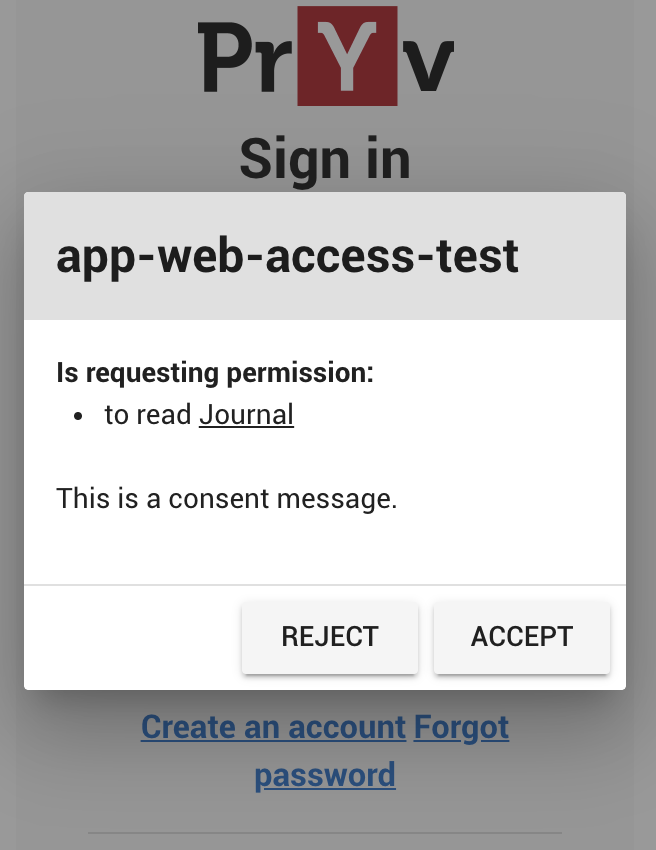
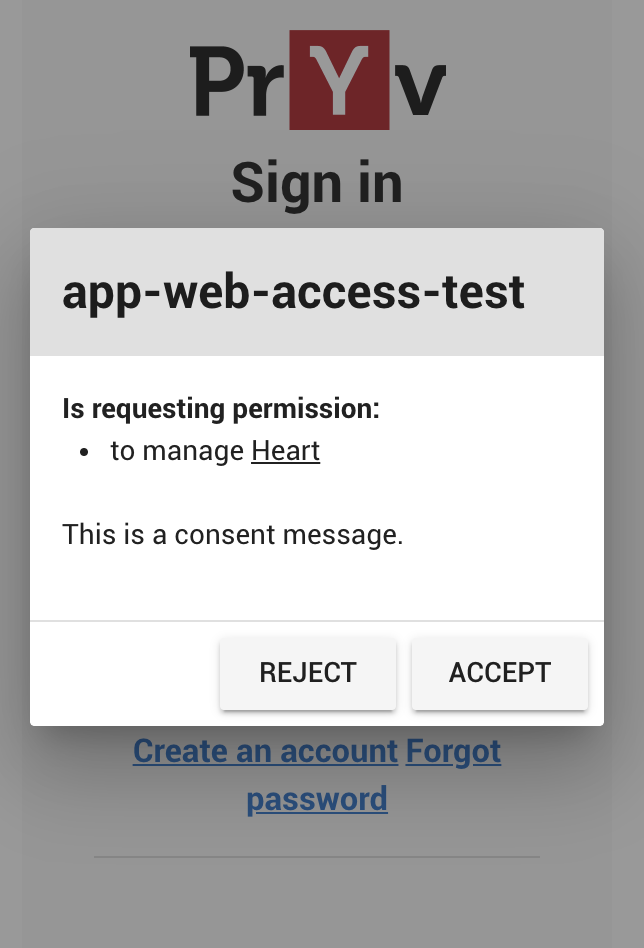
update getting started

Changed region(s): [[0.0311, 0.0, 0.9627, 0.9482], [0.0932, 0.2753, 0.8075, 0.3365], [0.0932, 0.5506, 0.6211, 0.6118]]

diff --git a/source/getting-started.md b/source/getting-started.md
@@ -22,8 +22,10 @@ In addition, you can download the [OpenAPI document](/open-api/3.0/api.yaml) des
 By registering on our Lab platform, you will have access to a Pryv.io user account in a fully-functional environment perfect for your first tests.
 
 1. Go to the [registration page](https://sw.pryv.me/access/register.html).
-![Register-lab.html](/assets/images/getting-started/register-lab.png)
-2. Fill in the form, choose [where you want to store your data](/concepts/#servers) under 'Hosting'.
+&nbsp;
+![Register-lab.html](/assets/images/getting-started/register-lab.png =210x)
+2. Fill in the form and choose [where you want to store your data](/concepts/#servers) under 'Hosting'.
+&nbsp;
 ![Hosting](/assets/images/getting-started/hosting.png)
 3. Click on the '**Create**' button.
 
@@ -32,9 +34,9 @@ By registering on our Lab platform, you will have access to a Pryv.io user accou
 
 Note that the email is optional for the account creation, but is required to reset your password.
 
-Once this is done, you will receive a welcome email from the **Pryv Lab** with your account details. You can sign-in with your Pryv.io account on the following link:
+Once this is done, you will receive a welcome email from the **Pryv Lab** with your account details. You can sign in to your Pryv.io account on the following link: [https://sw.pryv.me/access/access.html](https://sw.pryv.me/access/access.html).
 
-[https://sw.pryv.me/access/signinhub.html](https://sw.pryv.me/access/signinhub.html)
+![Sign-in](/assets/images/getting-started/sign-in.png)
 
 You have now access to your Pryv Lab account through the Pryv.io demo dashboard web application.
 
@@ -65,50 +67,55 @@ Once your platform is up and running, you can create a user account and launch t
 
 1. Test your Open Pryv.io locally by running `yarn local` in your terminal
 2. Open the registration page on the following link : https://my-computer.rec.la:4443/www/access/register.html. 
-![Register-open.html](/assets/images/getting-started/register-open.png)
+![Register-open.html](/assets/images/getting-started/register-open.png =210x)
 3. Fill in the form and click on the '**Create**' button.
 
-
+You can now sign in to your Open Pryv.io account on the following link: [https://my-computer.rec.la:4443/www/access/access.html](https://my-computer.rec.la:4443/www/access/access.html).
 
 ## Obtain an Access Token
 
-Now that your Pryv Lab account has been created, you can start adding data. In order to do so by using code or API clients such as cURL or Postman, you first need to obtain an access token.
+Now that your Pryv.io account has been created using either Pryv lab or Open Pryv.io, you can start adding data. In order to do so by using code or API clients such as cURL or Postman, you first need to obtain an access token.
 
 The easiest is to use the **Pryv Access Token Generation** page (which is a raw implementation of [Pryv.io's oAuth-like process](/reference/#authenticate-your-app)).
 
-1. Go to the [Pryv Access Token Generator: https://api.pryv.com/app-web-access/](https://api.pryv.com/app-web-access/?pryvServiceInfoUrl=https://reg.pryv.me/service/info)
+1. Go to the [Pryv Access Token Generation page: https://api.pryv.com/app-web-access/](https://api.pryv.com/app-web-access/)
 2. Set up the required parameters :
 
-   1. Enter the Application ID (ex.: `demopryv-access`)
+   1. Fill in the Service Info URL related to your Pryv.io platform:
+   - with Pryv Lab 
+   ![Service Info Pryv Lab](/assets/images/getting-started/service-info-lab.png)
+   - with Open Pryv.io
+   ![Service Info Open Pryv](/assets/images/getting-started/service-info-open.png)
+   2. Enter the Application ID (ex.: `app-web-access-test`)
    2. Setup the streams you want to grant access to in the permissions box
-      ![Permissions Box](/assets/images/getting-started/permissions_box.png)
+      ![Permissions Box](/assets/images/getting-started/permissions.png)
 
       ```json
       [
         {
           "streamId": "heart",
-          "level": "manage",
-          "defaultName": "Heart"
+          "defaultName": "Heart",
+          "level": "read"
         }
       ]
       ```
 
    3. Click on '**Request Access**' button
 
-3. Click on the '**Sign in**' button ![sign_in_button](/assets/images/getting-started/sign_in_button.png) - A new tab will open
-4. Sign in with your Pryv Lab credentials
+3. After requesting access, you can click on the '**Login**' button ![Login Button](/assets/images/getting-started/login-open-pryv.png) - A new tab will open to log in to your Pryv Lab or Open Pryv.io account
+4. Sign in with your Pryv Lab or Open Pryv.io credentials
    ![Sign In Dialog](/assets/images/getting-started/sign-in.png)
    A popup will open to inform you about the access you are about to grant.
-5. Click on '**Accept**' button
+5. Answer the App Access request
 
-   By accepting, you consent that the 'demopryv-access' application can access the stream `Heart` with a "manage" access-level. Since this stream doesn't exist yet, it will be automatically created and carry the name we provided in the `defaultName` parameter above.
+   By accepting, you consent that the 'app-web-access-test' application can access the stream `Heart` with a "manage" access level. Since this stream doesn't exist yet, it will be automatically created and carry the name we provided in the `defaultName` parameter above.
 
    For now, you just have to understand that we are generating a token that gives enough permissions to interact with our Pryv.io account in the scope of our example. You will learn more about accesses in the [Access Management chapter](#access-management).
 
-   ![Accept Button](/assets/images/getting-started/accept_button.png)
+   ![Accept Button](/assets/images/getting-started/consent.png)
 
-6. **Your access token has been generated.**
-   ![Access Token](/assets/images/getting-started/access_token.png)
+6. **The API endpoint has been generated.**
+   ![Access Token](/assets/images/getting-started/access-token.png)
 
 # Data Modelling
 
